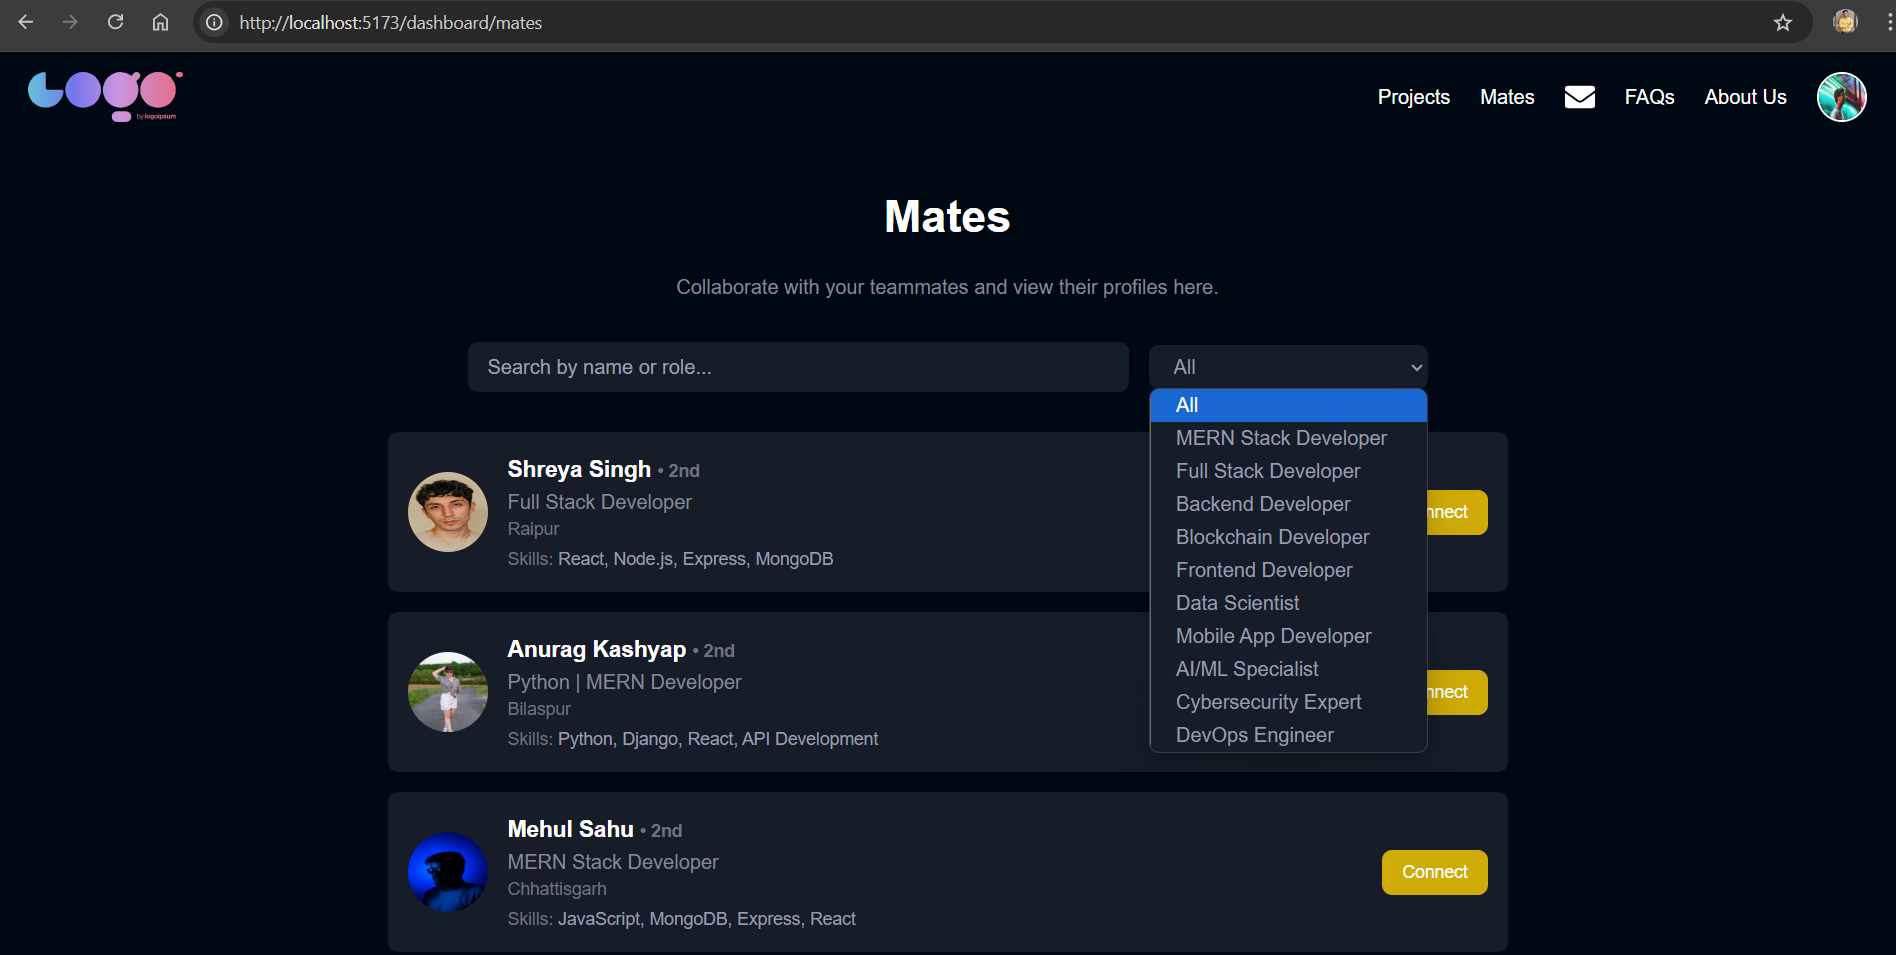
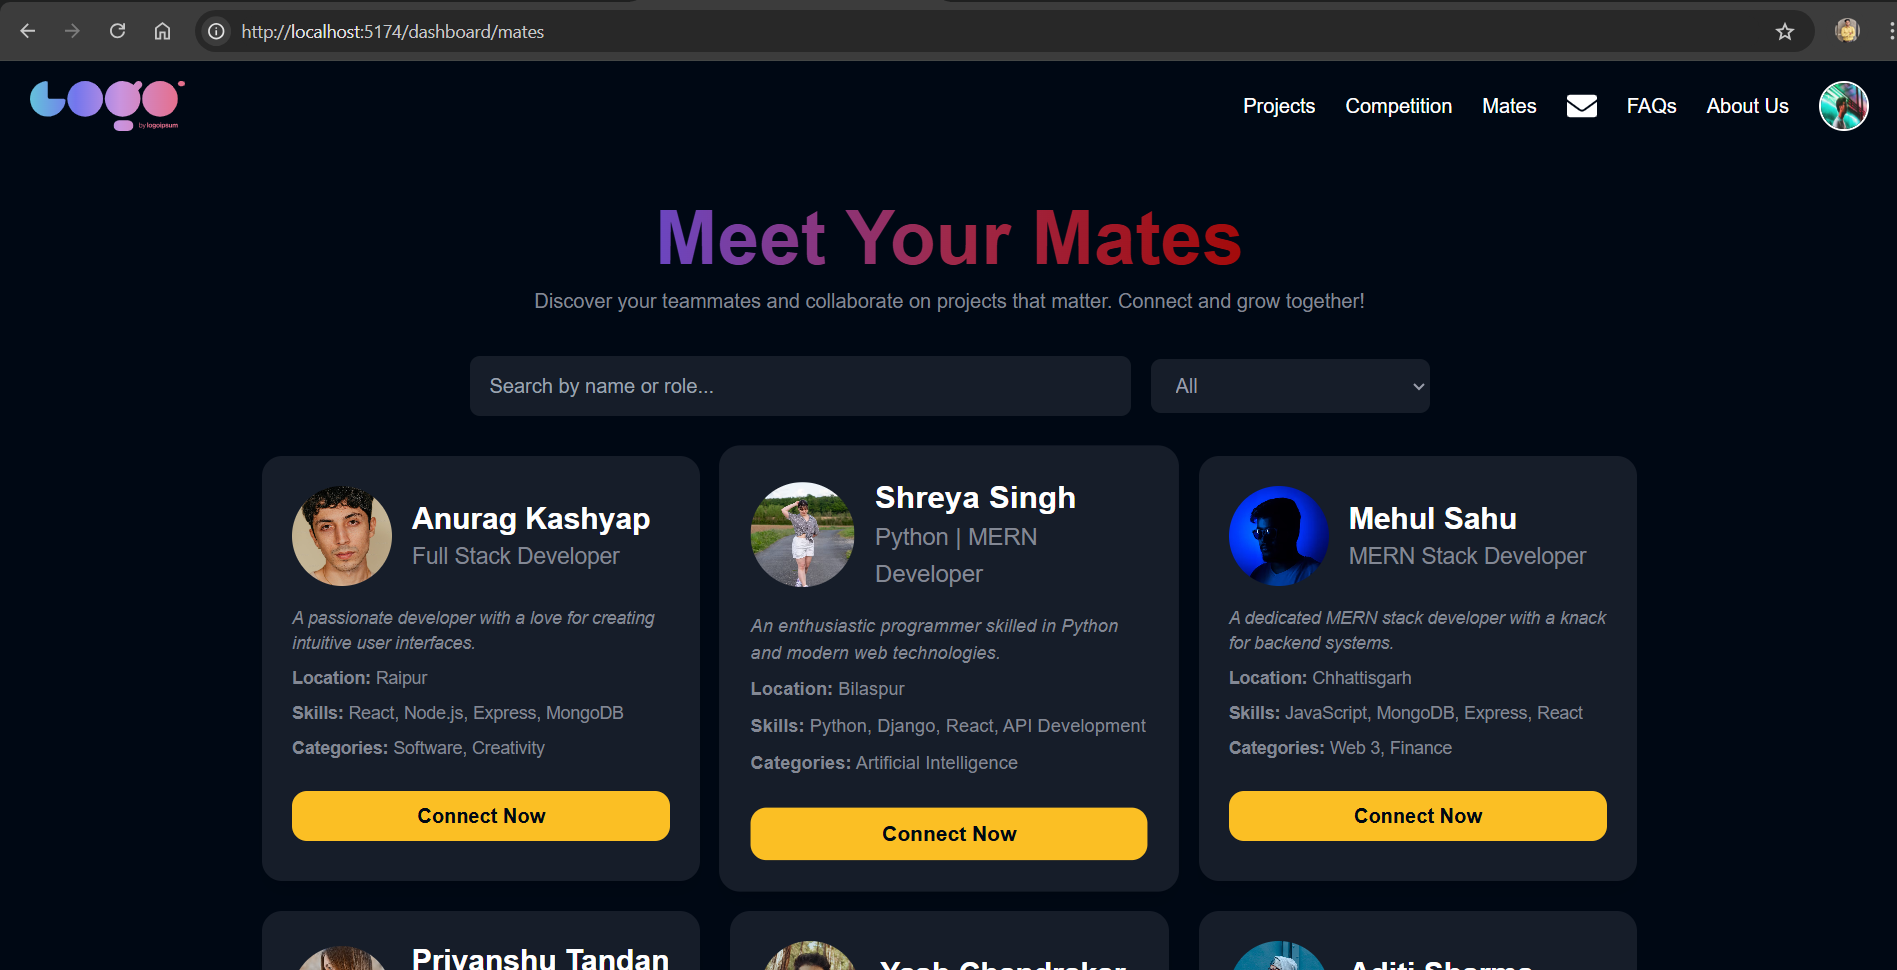
change mates page

diff --git a/src/components/Mates/Mates.jsx b/src/components/Mates/Mates.jsx
@@ -1,7 +1,6 @@
 import React, { useState } from "react";
 import { matesData } from "../../utils/constant";
 
-// Define a list of unique roles
 const roles = [
   "All",
   "MERN Stack Developer",
@@ -31,10 +30,16 @@ const Mates = () => {
 
   return (
     <div className="bg-richblack-900 min-h-screen text-white flex flex-col items-center py-10 px-6">
-      <h1 className="text-4xl font-bold mb-6">Mates</h1>
-      <p className="text-richblack-300 text-center max-w-2xl mb-8">
-        Collaborate with your teammates and view their profiles here.
-      </p>
+<div className="text-center space-y-4 mb-2">
+  <h1 className="text-4xl md:text-6xl font-bold bg-clip-text text-transparent bg-gradient-to-r from-purple-400 via-pink-500 to-red-500">
+    Meet Your Mates
+  </h1>
+</div>
+
+<p className="text-richblack-300 text-center max-w-2xl mb-8">
+  Discover your teammates and collaborate on projects that matter. Connect and grow together!
+</p>
+
 
       {/* Search and Filter Section */}
       <div className="flex flex-col sm:flex-row items-center gap-4 mb-8 w-full max-w-3xl">
@@ -43,12 +48,12 @@ const Mates = () => {
           placeholder="Search by name or role..."
           value={searchQuery}
           onChange={(e) => setSearchQuery(e.target.value)}
-          className="w-full sm:w-auto flex-1 bg-richblack-800 text-richblack-200 px-4 py-2 rounded-lg focus:outline-none"
+          className="w-full sm:w-auto flex-1 bg-richblack-800 text-richblack-200 px-4 py-3 rounded-lg focus:outline-none"
         />
         <select
           value={selectedRole}
           onChange={(e) => setSelectedRole(e.target.value)}
-          className="bg-richblack-800 text-richblack-200 px-4 py-2 rounded-lg focus:outline-none"
+          className="bg-richblack-800 text-richblack-200 px-4 py-3 rounded-lg focus:outline-none"
         >
           {roles.map((role, index) => (
             <option key={index} value={role}>
@@ -59,43 +64,55 @@ const Mates = () => {
       </div>
 
       {/* Mates Cards Section */}
-      <div className="w-full max-w-4xl">
+      <div className="grid grid-cols-1 sm:grid-cols-2 lg:grid-cols-3 gap-6 md:max-w-[1100px]">
         {filteredMates.length > 0 ? (
           filteredMates.map((mate) => (
             <div
               key={mate.id}
-              className="bg-richblack-800 p-4 rounded-lg shadow-md hover:shadow-lg transition-shadow mb-4 flex items-center"
+              className="bg-richblack-800 rounded-2xl shadow-lg p-6 hover:scale-105 transform transition-transform"
             >
-              {/* Profile Picture */}
-              <div className="w-16 h-16 rounded-full mr-4 bg-gray-600 flex items-center justify-center">
-                {mate.image ? (
-                  <img
-                    src={mate.image}
-                    alt={mate.name}
-                    className="w-16 h-16 rounded-full"
-                  />
-                ) : (
-                  <span className="text-white text-2xl">👤</span>
-                )}
+              {/* Profile Section */}
+              <div className="flex items-center mb-4">
+                <div className="w-20 h-20 rounded-full bg-gray-600 flex items-center justify-center overflow-hidden">
+                  {mate.image ? (
+                    <img
+                      src={mate.image}
+                      alt={mate.name}
+                      className="w-20 h-20 rounded-full object-cover"
+                    />
+                  ) : (
+                    <span className="text-white text-3xl">👤</span>
+                  )}
+                </div>
+                <div className="ml-4">
+                  <h2 className="text-2xl font-bold ">{mate.name}</h2>
+                  <p className="text-lg text-richblack-300">{mate.role}</p>
+                </div>
               </div>
+
+              {/* User Bio Section */}
+              <p className="text-richblack-300 text-sm mb-2 italic">{mate.bio}</p>
 
               {/* User Details */}
-              <div className="flex-1">
-                <h2 className="text-lg font-semibold">{mate.name} <span className="text-richblack-400 text-sm">• 2nd</span></h2>
-                <p className="text-richblack-300">{mate.role}</p>
-                <p className="text-richblack-400 text-sm">{mate.location}</p>
-                <p className="text-sm text-richblack-400 mt-1">Skills: <span className="text-richblack-200">{mate.skills.join(", ")}</span></p>
-              </div>
+              <p className="text-richblack-300 text-sm mb-2">
+                <strong>Location:</strong> <span className="text-richblack-300">{mate.location}</span>
+              </p>
+              <p className="text-richblack-300 text-sm mb-2">
+                <strong>Skills:</strong> <span className="text-richblack-300" >{mate.skills.join(", ")}</span>
+              </p>
+              <p className="text-richblack-300 text-sm mb-2">
+                <strong>Categories:</strong> <span className="text-richblack-300">{mate.categories.join(", ")}</span>
+              </p>
 
               {/* Connect Button */}
-              <button className="bg-yellow-200 hover:bg-purple-700 text-sm px-4 py-2 rounded-lg font-medium">
-                Connect
+              <button className="bg-yellow-400 hover:bg-yellow-300 text-richblack-900 font-bold px-6 py-2 rounded-xl w-full mt-4">
+                Connect Now
               </button>
             </div>
           ))
         ) : (
-          <p className="text-richblack-400 text-center">
-            No mates found matching your criteria.
+          <p className="text-richblack-400 text-center text-lg col-span-full">
+            No mates found matching your criteria. Try exploring other roles or searching again!
           </p>
         )}
       </div>

diff --git a/src/components/Dashboard/Project.jsx b/src/components/Dashboard/Project.jsx
@@ -1,74 +1,79 @@
-import React from 'react';
-import { FaArrowRight } from 'react-icons/fa';  // Import right arrow icon
-import { Link } from 'react-router-dom';
+import React from "react";
+import { FaArrowRight } from "react-icons/fa"; // Import right arrow icon
+import { Link } from "react-router-dom";
 
 const Project = ({ project }) => {
   console.log("projects", project);
 
   return (
-    <div className="bg-richblack-800  shadow-md shadow-richblack-200 rounded-lg overflow-hidden hover:shadow-lg transition-shadow duration-300 hover:shadow-richblack-200 hover:scale-101">
-      {/* Flex container for image and content */}
-      <div className="relative flex">
-        {/* Right Arrow Icon */}
-        <Link to={`/dashboard/project/${project.id}`}>
-          <div className="absolute top-4 right-4 bg-yellow-500 text-black p-2 rounded-full">
-            <FaArrowRight size={20} />
-          </div>
-        </Link>
+    <Link to={`/dashboard/project/${project.id}`}>
+      <div className="bg-richblack-800  shadow-md shadow-richblack-200 rounded-lg overflow-hidden hover:shadow-lg transition-shadow duration-300 hover:shadow-richblack-200 hover:scale-101">
+        {/* Flex container for image and content */}
+        <div className="relative flex">
+          {/* Right Arrow Icon */}
+          <Link to={`/dashboard/project/${project.id}`}>
+            <div className="absolute top-4 right-4 bg-yellow-500 text-black p-2 rounded-full">
+              <FaArrowRight size={20} />
+            </div>
+          </Link>
 
-        {/* Image */}
-        <div className="w-1/3 h-auto">
-          <img
-            src={project.imageSrc}
-            alt={project.title}
-            className="w-full h-full object-cover"
-          />
-        </div>
-
-        {/* Content */}
-        <div className="w-2/3 p-6">
-          {/* Title */}
-          <h1 className="text-3xl font-semibold text-white mb-2">
-            {project.title}
-          </h1>
-
-          {/* Description */}
-          <div className="mt-3">
-            <p className="text-white font-bold">Description:</p>
-            <p className="text-white mb-4 mt-1">{project.description}</p>
+          {/* Image */}
+          <div className="w-1/3 h-auto">
+            <img
+              src={project.imageSrc}
+              alt={project.title}
+              className="w-full h-full object-cover"
+            />
           </div>
 
-          <div className="flex justify-between items-center">
-  <div>
-    {/* Category */}
-    <div className="flex items-center gap-2 mb-4">
-      <span className="font-medium text-yellow-500">Category:</span>
-      <span className="text-white">{project.category}</span>
-    </div>
+          {/* Content */}
+          <div className="w-2/3 p-6">
+            {/* Title */}
+            <h1 className="text-3xl font-semibold text-white mb-2">
+              {project.title}
+            </h1>
 
-    {/* Created By */}
-    <div className="flex items-center gap-2">
-      <span className="font-medium text-yellow-500">Created By:</span>
-      <span className="text-white font-bold">{project.createdBy}</span>
-    </div>
-  </div>
+            {/* Description */}
+            <div className="mt-3">
+              <p className="text-white font-bold">Description:</p>
+              <p className="text-white mb-4 mt-1">{project.description}</p>
+            </div>
 
-  {/* Status Tags */}
-  <div className="flex space-x-2">
-    {project.statusTags.map((tag, index) => (
-      <span
-        key={index}
-        className="px-2 py-1 bg-purple-100 text-black text-xs font-semibold rounded"
-      >
-        {tag}
-      </span>
-    ))}
-  </div>
-</div>
+            <div className="flex justify-between items-center">
+              <div>
+                {/* Category */}
+                <div className="flex items-center gap-2 mb-4">
+                  <span className="font-medium text-yellow-500">Category:</span>
+                  <span className="text-white">{project.category}</span>
+                </div>
 
+                {/* Created By */}
+                <div className="flex items-center gap-2">
+                  <span className="font-medium text-yellow-500">
+                    Created By:
+                  </span>
+                  <span className="text-white font-bold">
+                    {project.createdBy}
+                  </span>
+                </div>
+              </div>
+
+              {/* Status Tags */}
+              <div className="flex space-x-2">
+                {project.statusTags.map((tag, index) => (
+                  <span
+                    key={index}
+                    className="px-2 py-1 bg-purple-100 text-black text-xs font-semibold rounded"
+                  >
+                    {tag}
+                  </span>
+                ))}
+              </div>
+            </div>
+          </div>
         </div>
       </div>
-    </div>
+    </Link>
   );
 };
 

diff --git a/src/utils/constant.js b/src/utils/constant.js
@@ -1,7 +1,7 @@
 export const matesData = [
     {
       id: 1,
-      name: "Shreya Singh",
+      name: "Anurag Kashyap",
       role: "Full Stack Developer",
       location: "Raipur",
       image: "https://plus.unsplash.com/premium_photo-1671656349322-41de944d259b?q=80&w=1887&auto=format&fit=crop&ixlib=rb-4.0.3&ixid=M3wxMjA3fDB8MHxwaG90by1wYWdlfHx8fGVufDB8fHx8fA%3D%3D",
@@ -11,13 +11,13 @@ export const matesData = [
     },
     {
       id: 2,
-      name: "Anurag Kashyap",
+      name: "Shreya Singh",
       role: "Python | MERN Developer",
       location: "Bilaspur",
       image: "https://images.unsplash.com/photo-1684966610091-f6beda2d025a?w=500&auto=format&fit=crop&q=60&ixlib=rb-4.0.3&ixid=M3wxMjA3fDB8MHxzZWFyY2h8MTJ8fHByb2ZpbGUlMjBpbWFnZXxlbnwwfHwwfHx8MA%3D%3D",
       skills: ["Python", "Django", "React", "API Development"],
       bio: "An enthusiastic programmer skilled in Python and modern web technologies.",
-      categories: ["Artificial Intelligence", "Cyber Security"],
+      categories: ["Artificial Intelligence"],
     },
     {
       id: 3,
@@ -55,7 +55,7 @@ export const matesData = [
       role: "Data Scientist",
       location: "Delhi",
       image: "https://images.unsplash.com/photo-1517841905240-472988babdf9?w=500&auto=format&fit=crop&q=60",
-      skills: ["Python", "TensorFlow", "Pandas", "Data Analysis"],
+      skills: ["Python", "TensorFlow", "Pandas"],
       bio: "Transforming data into actionable insights for better decision-making.",
       categories: ["Artificial Intelligence", "Finance"],
     },

diff --git a/src/components/Dashboard/Dashboard.jsx b/src/components/Dashboard/Dashboard.jsx
@@ -59,8 +59,14 @@ const Dashboard = () => {
       <div className="absolute top-1/2 left-1\2 bg-pink-200 w-72 h-72 bg-gradient-to-r from-orange-400 to-pink-500 opacity-30 rounded-full blur-3xl"></div>
       <div className="absolute top-1/2 right-1/2 bg-purple-100 w-80 h-80 bg-gradient-to-r from-cyan-400 to-blue-500 opacity-30 rounded-full blur-3xl"></div>
 
+      <div className="text-center space-y-4 mb-6 mt-8">
+  <h1 className="text-4xl md:text-6xl font-bold bg-clip-text text-transparent bg-gradient-to-r from-purple-400 via-pink-500 to-red-500">
+    Discover, Collaborate & Innovate
+  </h1>
+</div>
 
-      <div className="max-w-[1100px] bg-richblack-800 shadow-md mx-auto rounded-md">
+
+      <div className="max-w-[1100px] bg-richblack-800 shadow-md mx-auto rounded-md mt-4">
         <div className="p-4 max-w-xl mx-auto relative">
           {/* Search Icon */}
           <FaSearch className="absolute left-6 top-1/2 transform -translate-y-1/2 text-white w-5 h-5" />

diff --git a/README.md b/README.md
@@ -38,7 +38,7 @@
 ---
 
 ### Dashboard
-![Dashboard](./images/dashboard.png)  
+![Dashboard](./images/dashboard1.png)  
 *The dashboard provides an intuitive overview of active projects, tasks, and team activities. Key features include timeline tracking, milestone progress, and seamless access to communication tools. It serves as a one-stop hub for efficient project management.*
 
 ---
